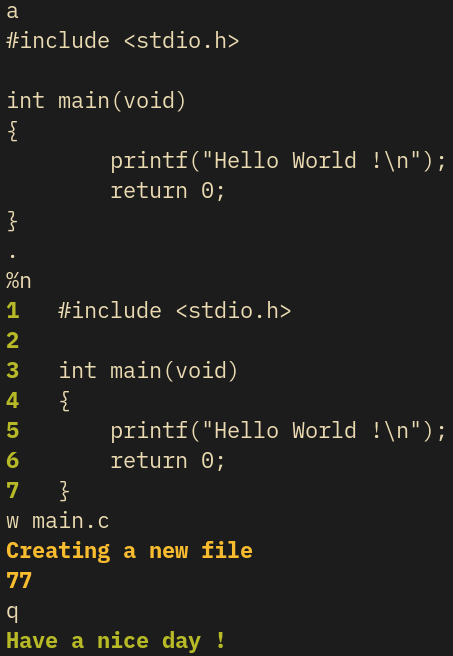
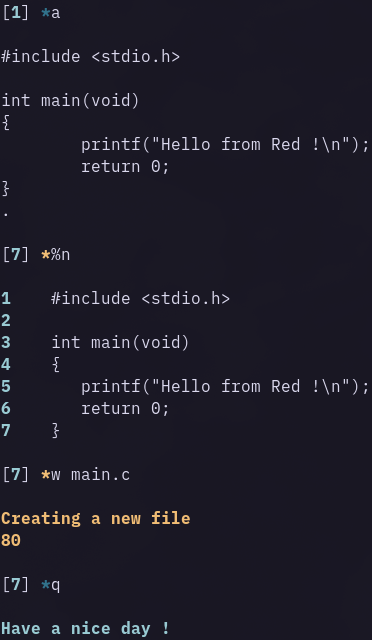
(update): red.png

diff --git a/main.c b/main.c
@@ -1,0 +1,7 @@
+#include <stdio.h>
+
+int main(void)
+{
+	printf("Hello from Red !\n");
+	return 0;
+}
